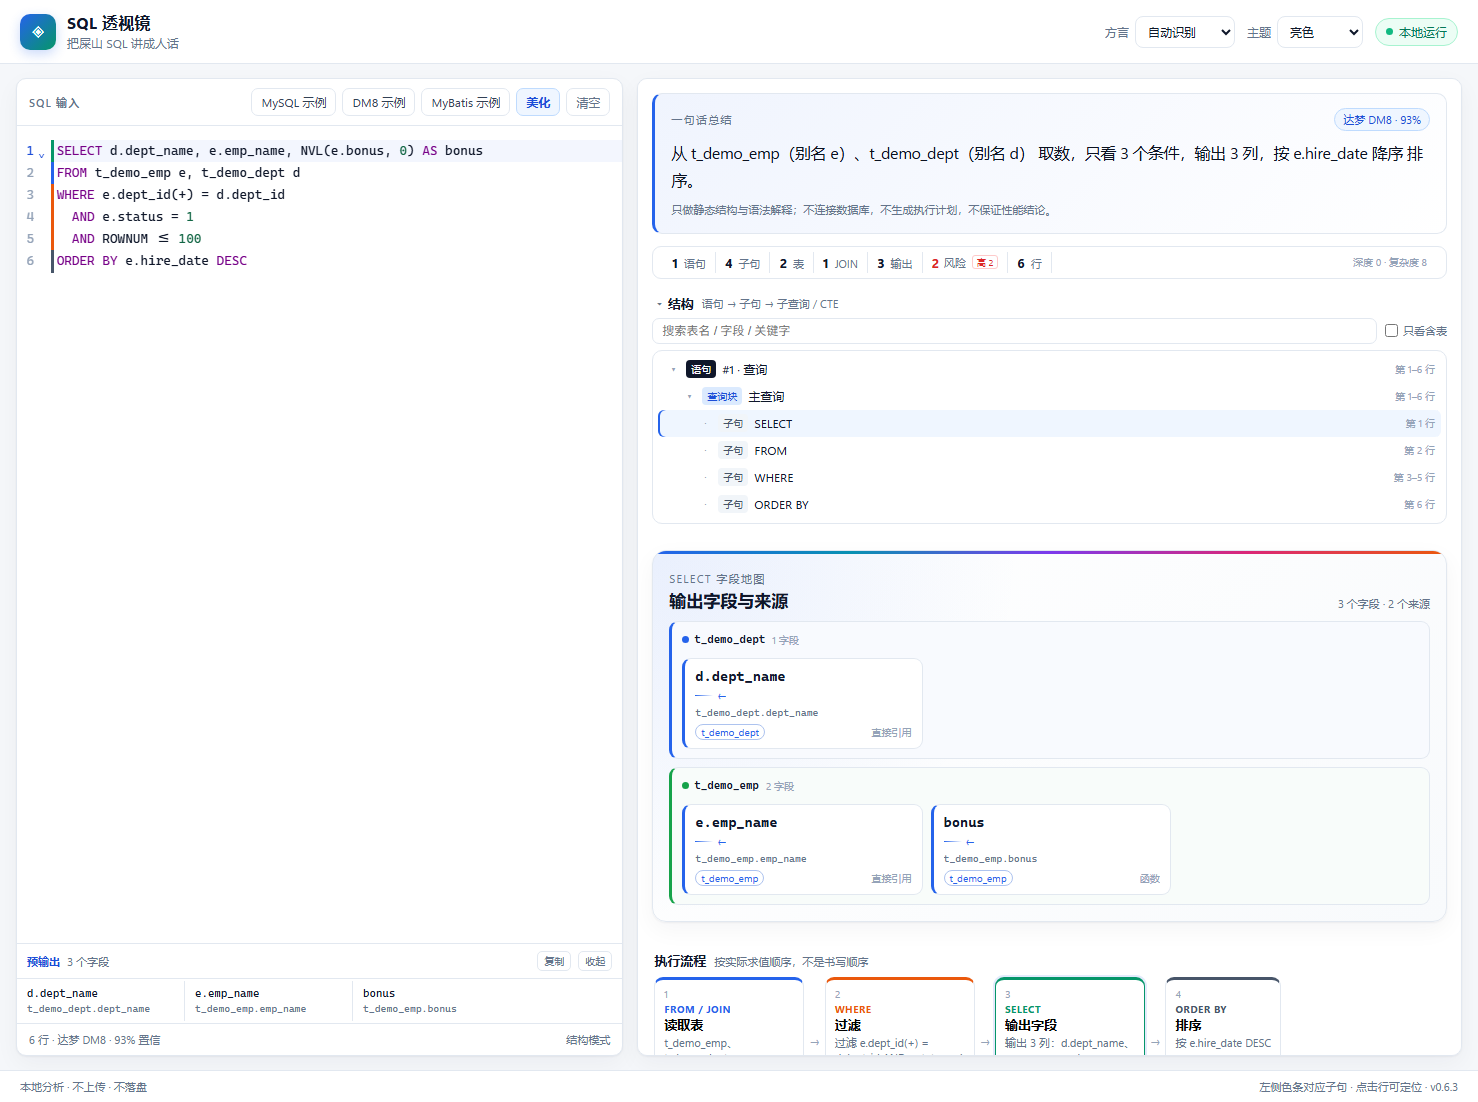
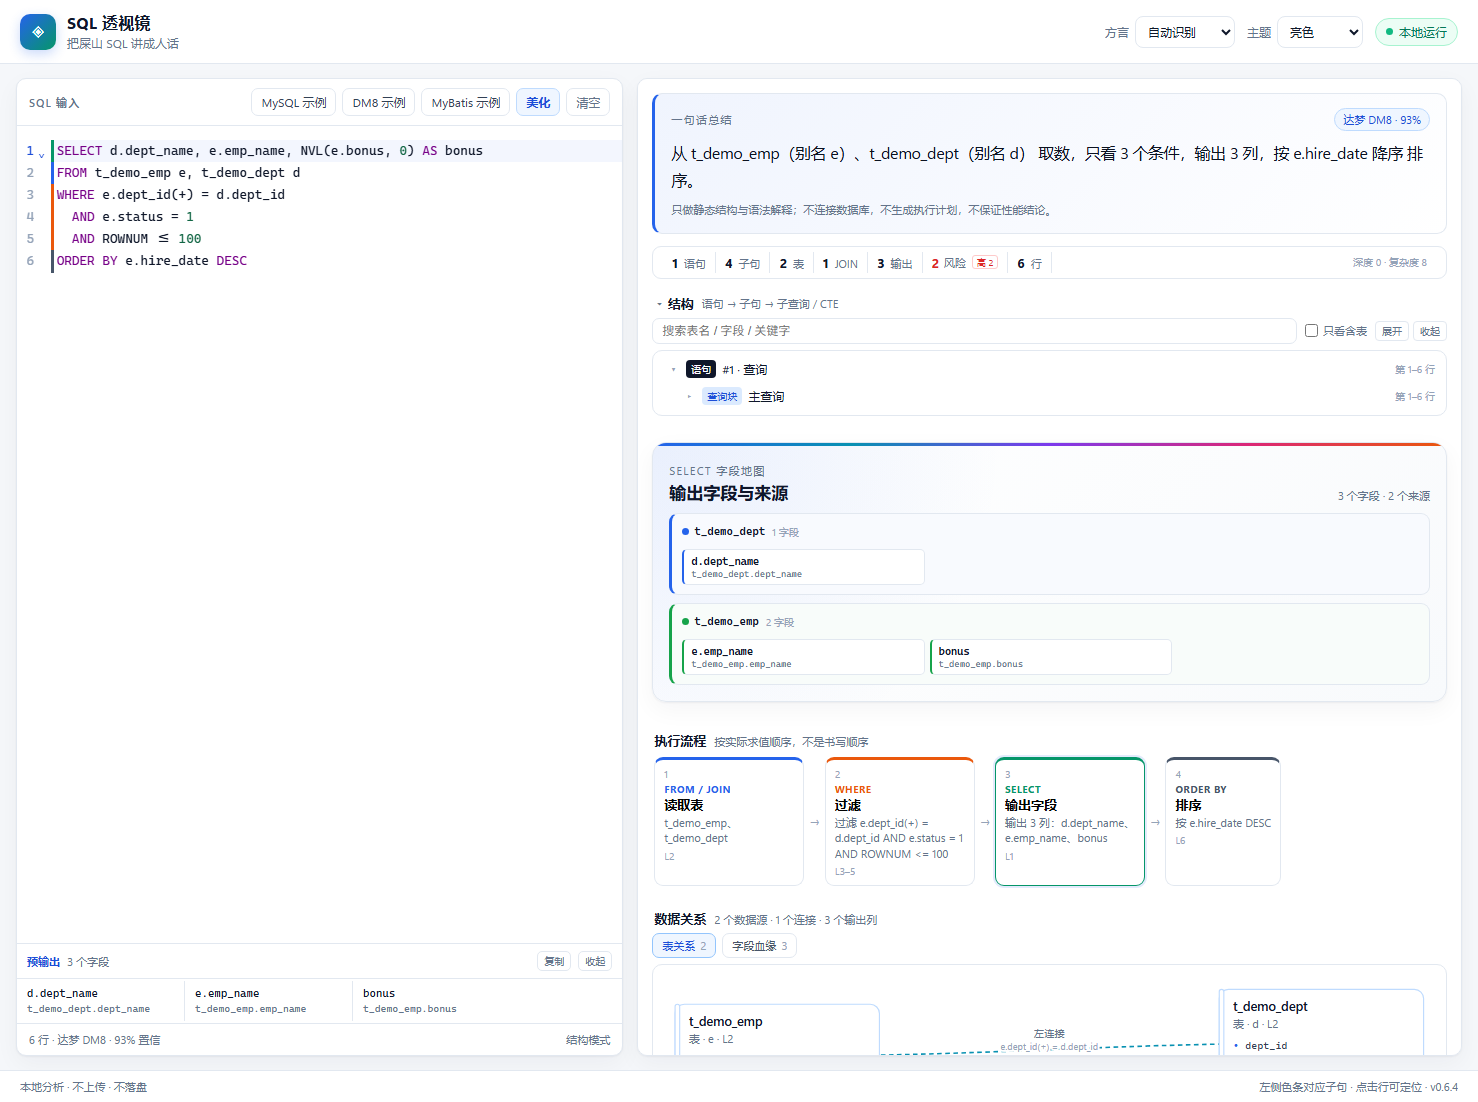
feat: 0.6.4 字段地图与结构树密度优化

diff --git a/app/src/ui/SelectMap.tsx b/app/src/ui/SelectMap.tsx
@@ -3,17 +3,6 @@ import type { CSSProperties } from 'react';
 import type { Relations } from '../core/types';
 import { sourceColor, sourceTable, sourceTables } from './visual';
 
-const TRANSFORM_LABEL: Record<string, string> = {
-  direct: '直接引用',
-  aggregate: '聚合',
-  window: '窗口',
-  case: '条件',
-  cast: '类型转换',
-  function: '函数',
-  literal: '常量',
-  unknown: '未知',
-};
-
 export interface SelectMapProps {
   relations?: Relations;
   highlightTable?: string;
@@ -94,7 +83,7 @@ export function SelectMap({
               </div>
 
               {showCards ? (
-                <div className="select-map-grid">
+                <div className="select-map-fields">
                   {group.rows.map((row) => {
                     const unknown = row.output === '*' || row.output.endsWith('.*');
                     const isActive =
@@ -105,24 +94,17 @@ export function SelectMap({
                       <button
                         key={row.id}
                         type="button"
-                        className={`select-map-card${unknown ? ' is-unknown' : ''}${
+                        className={`select-map-field${unknown ? ' is-unknown' : ''}${
                           isActive ? ' is-active' : ''
                         }`}
                         onClick={() => select(group.table, row.source, row.line)}
                         title={`${sourceTables(row.source).join('、')} · 定位到第 ${row.line} 行`}
                       >
-                        <span className="select-map-output">{row.output}</span>
-                        <span className="select-map-flow" aria-hidden="true">
-                          <i />
-                          <span>←</span>
-                        </span>
+                        <code className="select-map-output">{row.output}</code>
                         <span className="select-map-source" title={row.source}>
                           {row.source}
                         </span>
-                        <span className="select-map-meta">
-                          <span className="select-map-table">{group.table}</span>
-                          <span>{row.type ?? TRANSFORM_LABEL[row.transform] ?? row.transform}</span>
-                        </span>
+                        {unknown ? <em>具体列未知</em> : null}
                       </button>
                     );
                   })}

diff --git a/app/src/ui/StructureView.tsx b/app/src/ui/StructureView.tsx
@@ -1,6 +1,22 @@
-import { useMemo, useState } from 'react';
+import { useEffect, useMemo, useState } from 'react';
 import type { StructureNode } from '../core/structure';
 import { filterStructure, findActiveNode } from '../core/structure';
+
+function nodeIds(nodes: StructureNode[], predicate: (node: StructureNode) => boolean): string[] {
+  return nodes.flatMap((node) => [
+    ...(predicate(node) ? [node.id] : []),
+    ...nodeIds(node.children, predicate),
+  ]);
+}
+
+function defaultCollapsed(nodes: StructureNode[]): Set<string> {
+  return new Set(
+    nodeIds(
+      nodes,
+      (node) => node.kind === 'query' || node.kind === 'subquery' || node.kind === 'cte',
+    ),
+  );
+}
 
 export interface StructureViewProps {
   roots: StructureNode[];
@@ -90,7 +106,11 @@ export function StructureView({ roots, activeLine, onExplain }: StructureViewPro
   const [open, setOpen] = useState(true);
   const [query, setQuery] = useState('');
   const [onlyTables, setOnlyTables] = useState(false);
-  const [collapsed, setCollapsed] = useState<Set<string>>(() => new Set());
+  const [collapsed, setCollapsed] = useState<Set<string>>(() => defaultCollapsed(roots));
+
+  useEffect(() => {
+    setCollapsed(defaultCollapsed(roots));
+  }, [roots]);
 
   const filtered = useMemo(
     () => filterStructure(roots, query, onlyTables),
@@ -107,6 +127,10 @@ export function StructureView({ roots, activeLine, onExplain }: StructureViewPro
       return next;
     });
   };
+
+  const expandAll = () => setCollapsed(new Set());
+  const collapseAll = () =>
+    setCollapsed(new Set(nodeIds(roots, (node) => node.children.length > 0)));
 
   return (
     <section className="structure-section" aria-label="结构">
@@ -144,6 +168,14 @@ export function StructureView({ roots, activeLine, onExplain }: StructureViewPro
               />
               只看含表
             </label>
+            <div className="structure-actions">
+              <button type="button" onClick={expandAll}>
+                展开
+              </button>
+              <button type="button" onClick={collapseAll}>
+                收起
+              </button>
+            </div>
           </div>
 
           <div className="structure-tree" role="tree" aria-label="SQL 结构树">

diff --git a/app/src/styles.css b/app/src/styles.css
@@ -3325,3 +3325,82 @@ button {
   font-size: 9px;
   font-style: normal;
 }
+
+/* ---------- 0.6.4 紧凑字段行 ---------- */
+.select-map-fields {
+  display: grid;
+  grid-template-columns: repeat(auto-fill, minmax(185px, 1fr));
+  gap: 5px;
+  max-height: 220px;
+  margin-top: 7px;
+  overflow: auto;
+}
+
+.select-map-field {
+  min-width: 0;
+  padding: 5px 7px;
+  overflow: hidden;
+  border: 1px solid var(--line);
+  border-left: 2px solid var(--field-color);
+  border-radius: 5px;
+  background: var(--panel);
+  text-align: left;
+}
+
+.select-map-field:hover,
+.select-map-field.is-active {
+  border-color: var(--field-color);
+  background: color-mix(in srgb, var(--field-color) 6%, var(--panel));
+}
+
+.select-map-field .select-map-output {
+  display: block;
+  overflow: hidden;
+  color: var(--ink);
+  font-family: var(--font-mono);
+  font-size: 10.5px;
+  font-weight: 600;
+  text-overflow: ellipsis;
+  white-space: nowrap;
+}
+
+.select-map-field .select-map-source {
+  display: block;
+  overflow: hidden;
+  margin-top: 2px;
+  color: var(--muted);
+  font-family: var(--font-mono);
+  font-size: 9px;
+  text-overflow: ellipsis;
+  white-space: nowrap;
+}
+
+.select-map-field em {
+  display: block;
+  margin-top: 2px;
+  color: var(--warning-ink);
+  font-size: 9px;
+  font-style: normal;
+}
+
+/* ---------- 0.6.4 结构树默认收起 ---------- */
+.structure-actions {
+  display: flex;
+  gap: 4px;
+  margin-left: auto;
+}
+
+.structure-actions button {
+  padding: 2px 6px;
+  color: var(--muted);
+  border: 1px solid var(--line);
+  border-radius: 4px;
+  background: var(--panel);
+  font-size: 10px;
+  cursor: pointer;
+}
+
+.structure-actions button:hover {
+  color: var(--accent-ink);
+  border-color: var(--accent-line);
+}

diff --git a/app/src/App.tsx b/app/src/App.tsx
@@ -712,7 +712,7 @@ export default function App() {
       <footer className="statusbar">
         <span>本地分析 · 不上传 · 不落盘</span>
         <span className="muted">
-          左侧色条对应子句 · 点击行可定位 · v0.6.3
+          左侧色条对应子句 · 点击行可定位 · v0.6.4
         </span>
       </footer>
     </div>

diff --git a/README.md b/README.md
@@ -8,7 +8,7 @@
 
 ![SQL 透视镜界面预览](assets/preview.png)
 
-> 当前 **0.6.3**：合并顶部指标；字段地图按来源表分组；预输出改横向双行；结构前移并可点击查看解释；风险收成弹窗按钮。
+> 当前 **0.6.4**：字段地图小结果压缩为紧凑字段行；结构树默认收起子句，并补一键展开/收起。
 
 ---
 
@@ -32,6 +32,7 @@
 
 | 版本 | 更新了啥 |
 | --- | --- |
+| 0.6.4 | 字段地图小结果压缩为紧凑字段行；结构树默认收起查询块子句，增加一键展开/收起 |
 | 0.6.3 | 指标合并；字段地图分组；预输出横向双行；结构前移并支持下穿解释；风险收成弹窗按钮；SQLArk 同类字体栈 |
 | 0.6.2 | 派生表无别名直接列解析到真实表；递归展开内部表和 JOIN；WHERE 按查询块展示，外层 1=1 标为占位 |
 | 0.6.1 | 字段地图点击字段高亮表、字段和 JOIN 连线；表关系图节点列出本次用到的字段；JOIN 边补连接条件 |
@@ -89,11 +90,11 @@
 | PWA / 离线 | manifest + Service Worker 预缓存；可安装、断网刷新、更新提示；只缓存静态产物，不缓存 SQL |
 | 单文件离线 | `pnpm build:single` 生成一个 HTML；双击 `file://` 打开；Worker 不可用时自动走主线程 |
 | 执行流程 | 按真实求值顺序展示；FROM 阶段列出具体表，WHERE / JOIN / HAVING 写具体条件与键，多 JOIN 同时写出多个连接条件；SELECT 阶段列出具体字段与别名；UNION / UNION ALL 的主查询和每个分支独立成段，再生成「合并结果」阶段；点流程块打开详情弹窗 |
-| 字段地图 | 按来源表分组展示 SELECT 输出字段；大表默认只显示前 6 个字段并可展开；点击字段高亮相关表、字段和 JOIN 连线 |
+| 字段地图 | 按来源表分组展示 SELECT 输出字段；小结果用紧凑字段行，大表默认只显示前 6 个字段并可展开；点击字段高亮相关表、字段和 JOIN 连线 |
 | 预输出 | 横向双行：第一行字段名，第二行来源；支持横向滚动和复制字段名 |
 | SQL 结构 | 位于字段地图上方；点击节点打开解释弹窗，可定位原文 |
 | 风险体检 | 概览中的小按钮，点击弹窗查看，不再占据大块页面 |
-| 结构树 | 位于字段地图上方；语句 → 主查询 → 子句 → 子查询 / CTE / UNION 分支；可折叠、搜索、只看含表；点击节点打开解释弹窗，可定位原文 |
+| 结构树 | 位于字段地图上方；默认只展开语句和查询块，子句收起；支持一键展开 / 收起、搜索、只看含表；点击节点打开解释弹窗，可定位原文 |
 | 数据关系 | 表关系图节点列出本次用到的字段，JOIN 边显示条件；派生表内部表和 JOIN 会递归展开；字段血缘 + 查询块；CTE 派生列继续追到底层定义，`SELECT *` 可穿已知 CTE / 派生表展开列；表关系图补 CTE 依赖边；UNION 分支血缘合并标注；查询块用 SVG 图 + 列表展示主查询 / CTE / 子查询 / UNION 分支 |
 | 多语句 | 结果区顶部「语句 1 / 语句 2」切换；总结、数据关系和指标条跟随当前语句，结构树 / 流程 / 解释仍展示全文 |
 | DML | INSERT / UPDATE / DELETE 只做结构解释，不生成关系 / 血缘；导出仍后置 |
@@ -374,7 +375,7 @@ id = hash(kind + ':' + startLine + ':' + startCol + ':' + normalize(text)).slice
 - 左：CodeMirror 6 编辑器，子句左侧彩色竖条（取数蓝 / 过滤橙 / 聚合紫 / 计算绿 / 排序灰 / 风险红）。
 - 右：一句话总结 → 指标 → 风险 → 执行流程 → 结构 → 数据关系。
 - 点解释跳到行，点行高亮解释。
-- 不加载 Web Font、不引 UI 组件库；主包约 206.0 KB gzip，`format` 按需 74 KB，Worker 解析包约 519.7 KB，CSS 8.4 KB，SW 0.9 KB。
+- 不加载 Web Font、不引 UI 组件库；主包约 206.1 KB gzip，`format` 按需 74 KB，Worker 解析包约 519.7 KB，CSS 8.5 KB，SW 0.9 KB。
 
 ### 7.9 设计规范（实现依据）
 
@@ -429,7 +430,7 @@ id = hash(kind + ':' + startLine + ':' + startCol + ':' + normalize(text)).slice
 | M2 | 看懂 | 语义 AST、总结、结构树、MyBatis 容错、Worker | ✅ 完成 |
 | M3 | 看透 | 表关系、血缘、17 条规则、指标、DM8 `(+)` | 规则 17/17；UNION 血缘合并 / CTE 图追底 / 查询块图完成；DML 仅结构解释；导出后置 |
 | M4 | 可用 | 性能、PWA、单文件离线、暗色模式、发布 | 0.4.0–0.4.4 完成；1.0 发布待 M4-6 |
-| M5 | 精进 | 预输出、解释到字段 / 来源、流程详情 | 0.5.0 预输出 + SELECT 具体化；0.5.1 流程详情；0.5.2 UNION ALL + 移除逐句解释列表；0.5.3 派生列血缘；0.5.4 CTE 派生列 + SELECT * 展开 + JOIN/WHERE/HAVING 具体化；0.5.5 UNION 分支流程 + 预输出增强；0.5.6 SELECT * DDL 展开 + 多 JOIN + 验收；0.6.0 SELECT 字段地图 + HAVING 聚合解释 + 配色；0.6.1 字段地图联动 + 表节点字段 + JOIN 条件；0.6.2 派生表直接列 + 内部 JOIN + WHERE 分块；0.6.3 指标合并 + 字段分组 + 横向预输出 + 结构下穿 + 风险弹窗 + 字体 |
+| M5 | 精进 | 预输出、解释到字段 / 来源、流程详情 | 0.5.0 预输出 + SELECT 具体化；0.5.1 流程详情；0.5.2 UNION ALL + 移除逐句解释列表；0.5.3 派生列血缘；0.5.4 CTE 派生列 + SELECT * 展开 + JOIN/WHERE/HAVING 具体化；0.5.5 UNION 分支流程 + 预输出增强；0.5.6 SELECT * DDL 展开 + 多 JOIN + 验收；0.6.0 SELECT 字段地图 + HAVING 聚合解释 + 配色；0.6.1 字段地图联动 + 表节点字段 + JOIN 条件；0.6.2 派生表直接列 + 内部 JOIN + WHERE 分块；0.6.3 指标合并 + 字段分组 + 横向预输出 + 结构下穿 + 风险弹窗 + 字体；0.6.4 紧凑字段行 + 结构默认收起 |
 | V2 | 增强 | 两版对比、完整 MyBatis、DDL、AI（BYOK） | 想法池 |
 
 M4 只剩发布验收；导出仍放在最后，不阻塞 1.0。后续增强见 V2 想法池。

diff --git a/CHANGELOG.md b/CHANGELOG.md
@@ -1,5 +1,12 @@
 # 更新记录
 
+## 0.6.4
+
+- 字段地图的小结果改成紧凑字段行，去掉大卡片、箭头和重复的表名/变换标签。
+- 结构树默认收起查询块内部的子句，只保留语句和查询块层级。
+- 结构树增加「展开 / 收起」一键控制，搜索时仍自动展开匹配项。
+- 预输出保持横向双行，不再额外放大页面。
+
 ## 0.6.3
 
 - 界面字体切换为 SQLArk 同类的系统 UI 字体栈：Segoe UI Variable / 微软雅黑 UI / PingFang SC，代码用 Cascadia Code。
